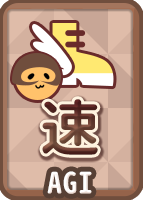
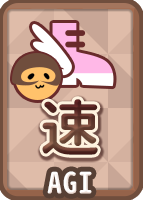
素質增加顏色

Changed region(s): [[0.3636, 0.09, 0.7832, 0.39]]

diff --git a/styles.css b/styles.css
@@ -268,13 +268,51 @@ body {
   line-height: 1.1;
 }
 
-/* 當前階段下受「場地」加倍的屬性（黃字） */
+/* 素質固定色（提升玩家辨識） */
+.stat-value--str { color: #ff9290; }
+.stat-value--int { color: #62d8ff; }
+.stat-value--dex { color: #89ff9f; }
+.stat-value--agi { color: #ffc2ef; }
+.stat-value--vit { color: #bababa; }
+.stat-value--luk { color: #ffa507; }
+
+/* 場景加成：各素質改為「上色到白」漸層 + 白色陰影 */
 .enemy-hud .stat-row .stat-value.stat-boosted,
 .player-panel .stat-row .stat-value.stat-boosted {
-  color: #ffe066 !important;
-  text-shadow:
-    0 0 8px rgba(255, 200, 40, 0.75),
-    var(--text-outline);
+  text-shadow: 0 0 8px #fff;
+  -webkit-text-fill-color: transparent;
+  background-clip: text;
+  -webkit-background-clip: text;
+}
+
+.enemy-hud .stat-row .stat-value.stat-boosted.stat-value--str,
+.player-panel .stat-row .stat-value.stat-boosted.stat-value--str {
+  background-image: linear-gradient(to bottom, #ff9290 0%, #ffffff 100%);
+}
+
+.enemy-hud .stat-row .stat-value.stat-boosted.stat-value--int,
+.player-panel .stat-row .stat-value.stat-boosted.stat-value--int {
+  background-image: linear-gradient(to bottom, #62d8ff 0%, #ffffff 100%);
+}
+
+.enemy-hud .stat-row .stat-value.stat-boosted.stat-value--dex,
+.player-panel .stat-row .stat-value.stat-boosted.stat-value--dex {
+  background-image: linear-gradient(to bottom, #89ff9f 0%, #ffffff 100%);
+}
+
+.enemy-hud .stat-row .stat-value.stat-boosted.stat-value--agi,
+.player-panel .stat-row .stat-value.stat-boosted.stat-value--agi {
+  background-image: linear-gradient(to bottom, #ffc2ef 0%, #ffffff 100%);
+}
+
+.enemy-hud .stat-row .stat-value.stat-boosted.stat-value--vit,
+.player-panel .stat-row .stat-value.stat-boosted.stat-value--vit {
+  background-image: linear-gradient(to bottom, #bababa 0%, #ffffff 100%);
+}
+
+.enemy-hud .stat-row .stat-value.stat-boosted.stat-value--luk,
+.player-panel .stat-row .stat-value.stat-boosted.stat-value--luk {
+  background-image: linear-gradient(to bottom, #ffa507 0%, #ffffff 100%);
 }
 
 .stat-label {

diff --git a/game_card.js b/game_card.js
@@ -942,8 +942,8 @@ function renderStats(el, stats) {
     const val = Math.round(base * mult);
     const boosted = mult > 1;
     const row = document.createElement("div");
-    row.className = "stat-cell";
-    row.innerHTML = `<div class="stat-value${boosted ? " stat-boosted" : ""}">${val}</div><div class="stat-label">${s}</div>`;
+    row.className = `stat-cell stat-cell--${String(s || "").toLowerCase()}`;
+    row.innerHTML = `<div class="stat-value stat-value--${String(s || "").toLowerCase()}${boosted ? " stat-boosted" : ""}">${val}</div><div class="stat-label">${s}</div>`;
     el.appendChild(row);
   });
 }
